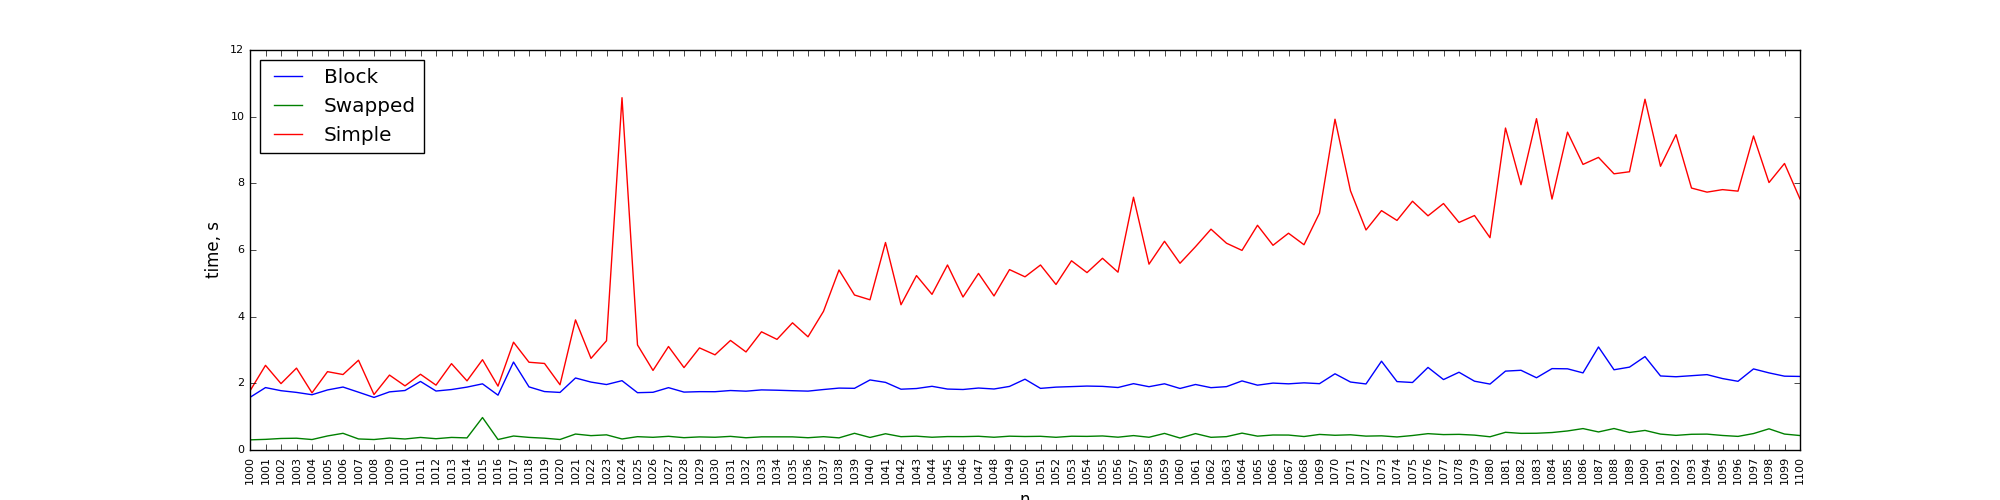
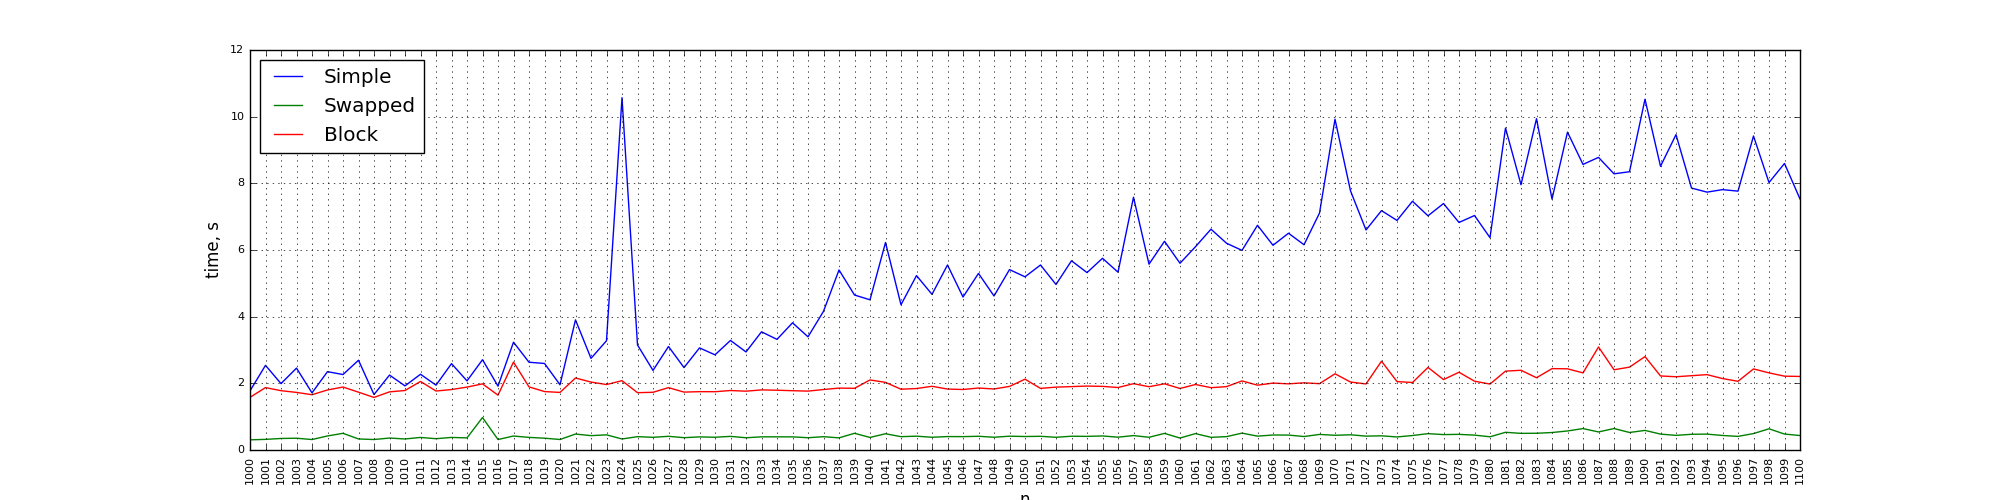
python plots modifications

diff --git a/py/mem_cache_plot.py b/py/mem_cache_plot.py
@@ -30,16 +30,11 @@ def parse_results(path):
 
 def generate_plot(data):
     ax = plt.figure(figsize=(20, 5)).add_subplot(111)
-    x_min = 0
-    x_max = 0
     for algo in data:
         keys = sorted(list(data[algo].keys()))
         values = [data[algo][key] for key in keys]
         ax.plot(keys, values)
         ax.legend([key for key in data], loc='upper left')
-
-        x_min = keys[0]
-        x_max = keys[-1]
 
     first_key = next(iter(data.keys()))
     ticks = sorted(list(data[first_key].keys()))
@@ -48,6 +43,7 @@ def generate_plot(data):
     plt.xticks(ticks, rotation='vertical')
     plt.xlabel('n')
     plt.ylabel('time, s')
+    plt.grid(True)
     return plt
 
 
